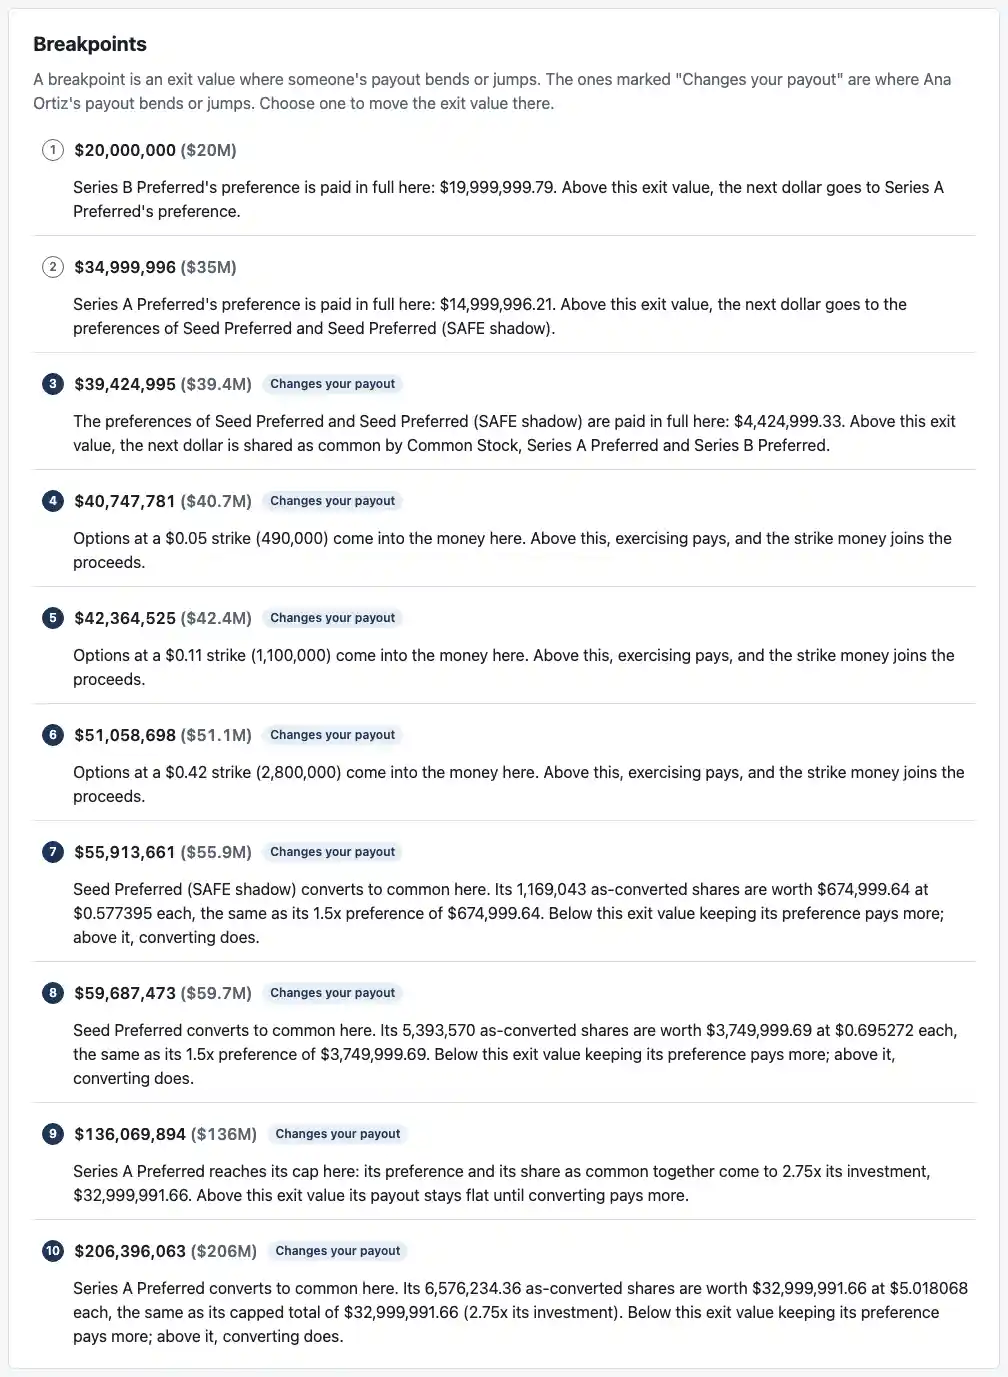
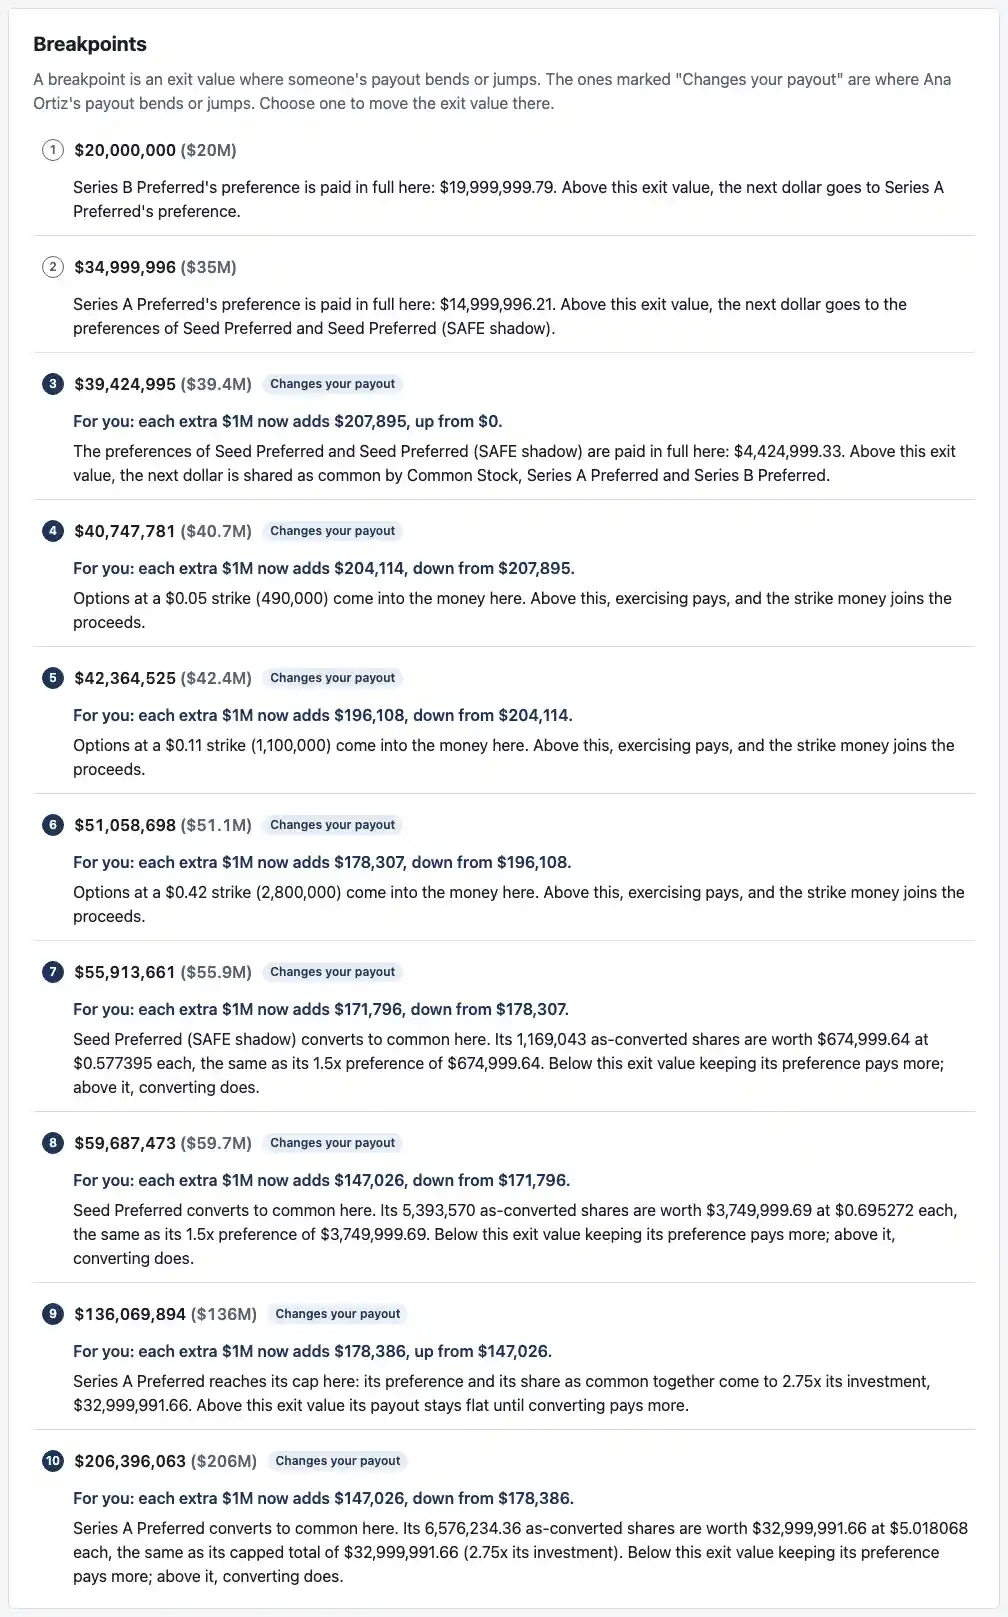
M3b review: say how each breakpoint changes your payout
Each breakpoint that changes the selected holder's payout gets one line:
what each extra $1M adds above it against below it, or how far the payout
jumps. For Ana on Millrace, breakpoint 4 reads "each extra $1M now adds
$204,114, down from $207,895" and breakpoint 8 "$147,026, down from
$171,796"; a test checks both. A bend now has to change the rate by half a
cent per $1M to count, matching the half cent a jump needs; no marks moved.

design-m3.md records the emphasis design as approved.

Changed region(s): [[0.0308, 0.0, 0.9534, 0.9993]]

diff --git a/apps/dashboard/src/BreakpointList.tsx b/apps/dashboard/src/BreakpointList.tsx
@@ -1,24 +1,26 @@
 // Every breakpoint, numbered as on the chart, with its plain-English reasons.
 // Clicking one moves the exit value there. The ones that change your payout
-// say so.
+// say so, and say how: what each extra $1M of exit value adds to your payout
+// on either side, or how far it jumps.
 
 import { D } from "spillpoint";
 
 import type { BreakpointView } from "./analysis.ts";
-import { dollars, shortDollars } from "./format.ts";
+import type { Change } from "./curves.ts";
+import { dollars, dollarsAndCents, shortDollars } from "./format.ts";
 
 type Decimal = D;
 
 interface Props {
   breakpoints: readonly BreakpointView[];
-  /** Which breakpoints change your payout, by index. */
-  yours: readonly boolean[];
+  /** How each breakpoint changes your payout, by index; null where it doesn't. */
+  changes: readonly (Change | null)[];
   yourName: string;
   exitValue: Decimal;
   onExitValue: (value: Decimal) => void;
 }
 
-export function BreakpointList({ breakpoints, yours, yourName, exitValue, onExitValue }: Props) {
+export function BreakpointList({ breakpoints, changes, yourName, exitValue, onExitValue }: Props) {
   return (
     <section className="card" aria-labelledby="breakpoints-heading">
       <h2 id="breakpoints-heading">Breakpoints</h2>
@@ -33,19 +35,21 @@ export function BreakpointList({ breakpoints, yours, yourName, exitValue, onExit
           {breakpoints.map((b, i) => {
             const x = new D(b.exitValue);
             const here = x.toDecimalPlaces(2).eq(exitValue.toDecimalPlaces(2));
+            const change = changes[i] ?? null;
             return (
               <li key={b.exitValue} className={here ? "is-here" : undefined}>
                 <button type="button" className="breakpoints__head" onClick={() => onExitValue(x)} aria-current={here ? "true" : undefined}>
-                  <span className={`breakpoints__n${yours[i] ? " is-yours" : ""}`} aria-hidden="true">
+                  <span className={`breakpoints__n${change ? " is-yours" : ""}`} aria-hidden="true">
                     {i + 1}
                   </span>
                   <span className="breakpoints__value">
                     {dollars(x)} <span className="muted">({shortDollars(x)})</span>
                   </span>
-                  {yours[i] && <span className="tag">Changes your payout</span>}
+                  {change && <span className="tag">Changes your payout</span>}
                   {b.jumps && <span className="tag tag--quiet">Payouts jump</span>}
                   {here && <span className="tag tag--quiet">The exit value is here</span>}
                 </button>
+                {change && <p className="breakpoints__yours">{forYou(change)}</p>}
                 {b.reasons.map((r) => (
                   <p key={r.code + r.subject.join("+")} className="breakpoints__reason">
                     {r.text}
@@ -58,4 +62,23 @@ export function BreakpointList({ breakpoints, yours, yourName, exitValue, onExit
       )}
     </section>
   );
+}
+
+/**
+ * One line on how a breakpoint changes your payout. A bend compares what each
+ * extra $1M adds just above the breakpoint with just below it; a jump gives
+ * its size. Whole dollars, unless they would round two different amounts to
+ * the same figure, then cents.
+ */
+function forYou(change: Change): string {
+  if (change.kind === "jump") {
+    // The size is the difference of the two amounts as shown, so the line adds up as written.
+    const cents = dollars(change.from) === dollars(change.to);
+    const shown = (v: D) => v.toDecimalPlaces(cents ? 2 : 0, D.ROUND_HALF_UP);
+    const money = cents ? dollarsAndCents : dollars;
+    const by = shown(change.to).minus(shown(change.from));
+    return `For you: your payout ${by.isNegative() ? "drops" : "jumps"} ${money(by.abs())} here, from ${money(change.from)} to ${money(change.to)}.`;
+  }
+  const money = dollars(change.after) === dollars(change.before) ? dollarsAndCents : dollars;
+  return `For you: each extra $1M now adds ${money(change.after)}, ${change.after.gt(change.before) ? "up" : "down"} from ${money(change.before)}.`;
 }

diff --git a/apps/dashboard/src/curves.ts b/apps/dashboard/src/curves.ts
@@ -45,23 +45,36 @@ export function valueAt(nodes: readonly Node[], x: Decimal): Decimal {
   return nodes[nodes.length - 1]!.left;
 }
 
-/** Slopes closer than this are the same; values closer than half a cent don't jump. */
-const SLOPE_TIE = new D("1e-9");
+/** Values closer than half a cent don't jump; rates closer than half a cent per extra $1M don't bend. */
 const VALUE_TIE = new D("0.005");
+const MILLION = new D("1e6");
+
+/**
+ * How a curve changes at node i, if it does: a jump from one payout to
+ * another, or a bend, given as what each extra $1M of exit value adds to the
+ * payout just below the breakpoint and just above it. Between breakpoints a
+ * payout is a straight line, so that rate holds across each whole segment.
+ */
+export type Change = { kind: "jump"; from: Decimal; to: Decimal } | { kind: "bend"; before: Decimal; after: Decimal };
+
+export function changeAt(nodes: readonly Node[], i: number): Change | null {
+  const n = nodes[i];
+  const before = nodes[i - 1];
+  const after = nodes[i + 1];
+  if (!n || !before || !after) return null;
+  if (n.right.minus(n.left).abs().gt(VALUE_TIE)) return { kind: "jump", from: n.left, to: n.right };
+  const perMillionBefore = n.left.minus(before.right).div(n.x.minus(before.x)).times(MILLION);
+  const perMillionAfter = after.left.minus(n.right).div(after.x.minus(n.x)).times(MILLION);
+  if (perMillionBefore.minus(perMillionAfter).abs().gt(VALUE_TIE)) return { kind: "bend", before: perMillionBefore, after: perMillionAfter };
+  return null;
+}
 
 /**
  * Whether this curve bends or jumps at node i: the breakpoints that change
  * the selected holder's payout, which the founder view points out.
  */
 export function changesAt(nodes: readonly Node[], i: number): boolean {
-  const n = nodes[i];
-  const before = nodes[i - 1];
-  const after = nodes[i + 1];
-  if (!n || !before || !after) return false;
-  if (n.right.minus(n.left).abs().gt(VALUE_TIE)) return true;
-  const slopeBefore = n.left.minus(before.right).div(n.x.minus(before.x));
-  const slopeAfter = after.left.minus(n.right).div(after.x.minus(n.x));
-  return slopeBefore.minus(slopeAfter).abs().gt(SLOPE_TIE);
+  return changeAt(nodes, i) !== null;
 }
 
 /** A tidy axis top and step: 1, 2, 2.5 or 5 times a power of ten, in four to six steps. */

diff --git a/apps/dashboard/test/breakpoint-list.test.tsx b/apps/dashboard/test/breakpoint-list.test.tsx
@@ -1,0 +1,40 @@
+// The "For you" line in the breakpoint list, for changes neither example has:
+// jumps up and down, and a bend too small to show in whole dollars.
+
+import { render, screen } from "@testing-library/react";
+import { D } from "spillpoint";
+import { describe, expect, it } from "vitest";
+
+import { BreakpointList } from "../src/BreakpointList.tsx";
+import type { Change } from "../src/curves.ts";
+
+const breakpoint = (exitValue: string) => ({ exitValue, jumps: false, reasons: [{ code: "other" as const, subject: [], text: "A reason." }] });
+
+function forYou(change: Change): string | null {
+  render(<BreakpointList breakpoints={[breakpoint("50000000")]} changes={[change]} yourName="Ana" exitValue={new D(0)} onExitValue={() => {}} />);
+  return document.querySelector(".breakpoints__yours")?.textContent ?? null;
+}
+
+describe("how a breakpoint changes your payout", () => {
+  it("gives the size of a jump up, from and to", () => {
+    expect(forYou({ kind: "jump", from: new D("1000000.4"), to: new D("3500000.6") })).toBe(
+      "For you: your payout jumps $2,500,001 here, from $1,000,000 to $3,500,001.",
+    );
+  });
+
+  it("says a payout drops when it jumps down", () => {
+    expect(forYou({ kind: "jump", from: new D("4000000"), to: new D("2750000") })).toBe("For you: your payout drops $1,250,000 here, from $4,000,000 to $2,750,000.");
+  });
+
+  it("uses cents when whole dollars would show the same amount twice", () => {
+    expect(forYou({ kind: "bend", before: new D("204114.2"), after: new D("204114.31") })).toBe(
+      "For you: each extra $1M now adds $204,114.31, up from $204,114.20.",
+    );
+  });
+
+  it("says nothing when the breakpoint doesn't change your payout", () => {
+    render(<BreakpointList breakpoints={[breakpoint("50000000")]} changes={[null]} yourName="Ana" exitValue={new D(0)} onExitValue={() => {}} />);
+    expect(document.querySelector(".breakpoints__yours")).toBeNull();
+    expect(screen.queryByText("Changes your payout")).toBeNull();
+  });
+});

diff --git a/apps/dashboard/src/App.tsx b/apps/dashboard/src/App.tsx
@@ -13,7 +13,7 @@ import { PayoffChart } from "./PayoffChart.tsx";
 import { PayoutTable } from "./PayoutTable.tsx";
 import { useAnalysis } from "./analysis.ts";
 import { defaultHolder } from "./capTable.ts";
-import { changesAt, seriesNodes } from "./curves.ts";
+import { changeAt, seriesNodes } from "./curves.ts";
 
 export function App() {
   const [exampleId, setExampleId] = useState(examples[0]!.id);
@@ -62,12 +62,14 @@ function Workspace({ example }: { example: Example }) {
   const answer = useMemo(() => solve(pc, exitValue).answers[0]!, [pc, exitValue]);
   const analysis = useAnalysis(example.exit);
   const ready = analysis.status === "ready" ? analysis : null;
-  // The breakpoints where your payout bends or jumps, which the curves and the list point out.
-  const yours = useMemo(() => {
+  // How your payout bends or jumps at each breakpoint, if it does: the curves mark those breakpoints,
+  // and the list says how.
+  const changes = useMemo(() => {
     if (!ready) return [];
     const nodes = seriesNodes(ready.curve, "holder", you);
-    return ready.breakpoints.map((_, i) => changesAt(nodes, i + 1));
+    return ready.breakpoints.map((_, i) => changeAt(nodes, i + 1));
   }, [ready, you]);
+  const yours = useMemo(() => changes.map((c) => c !== null), [changes]);
   const yourName = exit.capTable.holders.find((h) => h.id === you)?.name ?? "";
 
   return (
@@ -94,7 +96,7 @@ function Workspace({ example }: { example: Example }) {
         />
       )}
       <PayoutTable pc={pc} answer={answer} exitValue={exitValue} you={you} />
-      {ready && <BreakpointList breakpoints={ready.breakpoints} yours={yours} yourName={yourName} exitValue={exitValue} onExitValue={setExitValue} />}
+      {ready && <BreakpointList breakpoints={ready.breakpoints} changes={changes} yourName={yourName} exitValue={exitValue} onExitValue={setExitValue} />}
     </main>
   );
 }

diff --git a/apps/dashboard/test/curves.test.ts b/apps/dashboard/test/curves.test.ts
@@ -5,7 +5,7 @@ import { D } from "spillpoint";
 import { describe, expect, it } from "vitest";
 
 import type { CurvePoint } from "../src/analysis.ts";
-import { changesAt, chartRows, niceScale, seriesNodes, valueAt } from "../src/curves.ts";
+import { changeAt, changesAt, chartRows, niceScale, seriesNodes, valueAt } from "../src/curves.ts";
 
 // Two holders over exit values $0 to $30. "a" gets nothing until $10, then
 // half of each dollar; at $20 its payout jumps from $5 to $8, then it gets
@@ -47,6 +47,23 @@ describe("which breakpoints change a payout", () => {
   it("never counts the ends of the range", () => {
     expect(changesAt(a, 0)).toBe(false);
     expect(changesAt(a, 3)).toBe(false);
+  });
+
+  it("gives a bend as what each extra $1M adds on either side, and a jump as from and to", () => {
+    const bend = changeAt(a, 1);
+    expect(bend?.kind).toBe("bend");
+    // "a" gets nothing below $10, then half of each dollar: $500,000 of each extra $1M.
+    if (bend?.kind === "bend") expect([bend.before.toString(), bend.after.toString()]).toEqual(["0", "500000"]);
+    const jump = changeAt(a, 2);
+    expect(jump?.kind).toBe("jump");
+    if (jump?.kind === "jump") expect([jump.from.toString(), jump.to.toString()]).toEqual(["5", "8"]);
+    expect(changeAt(b, 1)).toBeNull();
+  });
+
+  it("ignores a bend of less than half a cent per extra $1M", () => {
+    // From $10 the rate rises by 0.4 billionths of a dollar per dollar: $0.0004 per $1M.
+    const slight = seriesNodes([at("0", "0", "0"), at("10", "10", "0"), at("20", "20.000000004", "0")], "holder", "a");
+    expect(changeAt(slight, 1)).toBeNull();
   });
 
   it("ignores a jump of less than half a cent", () => {

diff --git a/apps/dashboard/test/curves-ui.test.tsx b/apps/dashboard/test/curves-ui.test.tsx
@@ -97,6 +97,20 @@ describe("the breakpoint list", () => {
     expect(yours).toEqual([false, false, true, true, true, true, true, true, true, true]);
   });
 
+  it("says how each one changes Ana's payout: what each extra $1M adds on either side", async () => {
+    render(<App />);
+    const items = within(await breakpointList()).getAllByRole("listitem");
+    const forYou = (n: number) => items[n - 1]!.querySelector(".breakpoints__yours")?.textContent ?? null;
+    // Breakpoint 4: the $0.05 options come into the money, so common's share of each dollar drops.
+    expect(forYou(4)).toBe("For you: each extra $1M now adds $204,114, down from $207,895.");
+    // Breakpoint 8: Seed Preferred converts and joins common.
+    expect(forYou(8)).toBe("For you: each extra $1M now adds $147,026, down from $171,796.");
+    // Breakpoint 3: nothing reaches common below it.
+    expect(forYou(3)).toMatch(/^For you: each extra \$1M now adds \$[\d,]+, up from \$0\.$/);
+    // Breakpoints 1 and 2 don't change Ana's payout, so they say nothing about it.
+    expect([forYou(1), forYou(2)]).toEqual([null, null]);
+  });
+
   it("follows the holder you choose", async () => {
     render(<App />);
     const list = await breakpointList();

diff --git a/apps/dashboard/src/format.ts b/apps/dashboard/src/format.ts
@@ -18,6 +18,14 @@ export function dollars(amount: Decimal): string {
   return `${sign}$${grouped(rounded.abs().toFixed(0))}`;
 }
 
+/** "$204,114.37": to the cent, where whole dollars would hide a difference. */
+export function dollarsAndCents(amount: Decimal): string {
+  const rounded = amount.toDecimalPlaces(2, D.ROUND_HALF_UP);
+  const sign = rounded.isNegative() ? "-" : "";
+  const [whole, cents] = rounded.abs().toFixed(2).split(".");
+  return `${sign}$${grouped(whole!)}.${cents}`;
+}
+
 /** "$9.75M", "$39.4M", "$100M", "$450K", "$812": three significant digits, for headlines. */
 export function shortDollars(amount: Decimal): string {
   const a = amount.abs();

diff --git a/apps/dashboard/src/styles.css b/apps/dashboard/src/styles.css
@@ -154,6 +154,7 @@ select:focus-visible, input:focus-visible, button:focus-visible { outline: 2px s
 .breakpoints__n.is-yours { background: var(--accent); border-color: var(--accent); color: #fff; }
 .breakpoints__value { font-weight: 600; font-variant-numeric: tabular-nums; }
 .breakpoints__reason { margin: 6px 0 0 40px; }
+.breakpoints__yours { margin: 6px 0 0 40px; font-weight: 600; color: var(--accent); }
 .tag { font-size: 0.75rem; font-weight: 600; border-radius: 999px; padding: 1px 8px; background: var(--accent-soft); color: var(--accent); }
 .tag--quiet { background: transparent; border: 1px solid var(--line); color: var(--muted); }
 

diff --git a/notes/review-m3b.md b/notes/review-m3b.md
@@ -10,6 +10,41 @@ pnpm install && pnpm dev
 
 Then open the address it prints (usually http://localhost:5173/). Everything below is on Millrace, which the page opens on, with Ana Ortiz as "you".
 
+## Added after your review: "For you" on each breakpoint
+
+Every breakpoint that changes the selected holder's payout now says how, in one line, in bold under its exit value:
+
+- **A bend** compares what each extra $1M of exit value adds to your payout just above the breakpoint against just below it. For Ana on Millrace:
+  - **Breakpoint 4:** "For you: each extra $1M now adds $204,114, down from $207,895."
+  - **Breakpoint 8:** "For you: each extra $1M now adds $147,026, down from $171,796."
+
+  These are your two numbers, to the dollar, and a test checks both.
+- **A jump** says how much your payout jumps instead: "For you: your payout jumps $2,500,001 here, from $1,000,000 to $3,500,001." A jump down says "drops".
+
+**What to click:** scroll to the breakpoint list. Ana's lines run from breakpoint 3, "now adds $207,895, up from $0", to breakpoint 10. Two to check by sense:
+- **At 9 her rate goes up,** because Series A stops sharing at its cap.
+- **At 10 it goes back down,** because Series A converts and shares again.
+
+Switch "You are" to Cobalt and the lines follow, starting at breakpoint 1.
+
+![The breakpoint list, with the "For you" lines](screenshots/m3b-breakpoints.webp)
+
+**Choices I made, for you to check:**
+1. **Wording:** "up from" or "down from", and "$0" where nothing reaches you on one side. I kept "$0" rather than "nothing" so every line reads the same way.
+2. **Whole dollars,** as in the tables. If two rates would round to the same dollar, the line shows cents instead, so it never reads "now adds $204,114, up from $204,114".
+3. **A jump's size** is the difference of the two amounts as shown, so the line adds up as written.
+4. **What counts as a change.** A bend now has to change your rate by at least half a cent per extra $1M, the same half cent a jump needs. That way, every breakpoint marked "Changes your payout" has a visible difference in its line. Before, the threshold was far smaller, a thousandth of a cent per $1M. No marks moved: for all nine Millrace holders and all four in case 4, the marked breakpoints are the same as before.
+5. **Where it shows:** the breakpoint list only. The slider's marks and the chart's numbers stay as they were, explaining the breakpoint for everyone. Say if you'd like the line in the slider marks' boxes as well.
+
+**Tests:** 7 more, 45 for the dashboard in all.
+- **Your two Millrace numbers,** checked to the exact text, plus "up from $0" at breakpoint 3.
+- **No line** where a breakpoint doesn't change your payout.
+- **A jump up and a jump down.**
+- **The cents fallback.**
+- **The rate calculation** on a small made-up curve.
+
+**`notes/design-m3.md`** now records the emphasis design as approved, and the "For you" line.
+
 ## What to click
 
 1. **The slider's marks.** Under the slider:
@@ -72,7 +107,7 @@ Then open the address it prints (usually http://localhost:5173/). Everything bel
     - choosing a breakpoint
     - the slider's caption, its marks' names and boxes on focus and hover, and choosing a mark
 - **Still no network calls or browser storage.** The built page contains no `fetch`, XMLHttpRequest, beacon, WebSocket, localStorage, sessionStorage or IndexedDB.
-- **`pnpm screenshots`** takes the six new shots, cropped to the part of the page each one shows (245 KB in all).
+- **`pnpm screenshots`** takes the six new shots, cropped to the part of the page each one shows (261 KB in all).
 - **`notes/design-m3.md`:** principle 5 and the M3b line now describe the curves as built (decision 1 below), and M3e's two phone fixes from your M3a review are recorded.
 - **`notes/next-unlock.md`:** renaming "Seed Preferred (SAFE shadow)" to "(from SAFEs)", as you asked. Until that unlock, the dashboard shows the case's current name; you'll see it in the list and the by-class view.
 
@@ -87,16 +122,16 @@ No changes to `.github/workflows/` or `.claude/`.
    - **The one you point at** is lifted in orange and labelled.
    - **The rest are grey,** for context.
 
-   Color is never the only cue. The two colored lines are labelled in words, and the legend and hover box name every holder with its value. If you'd rather have dash patterns on the grey lines too, it's a small change.
-2. **"Changes your payout"** means your payout jumps by more than half a cent there, or its slope changes. It's worked out from the curve, so it follows whichever holder you choose. A breakpoint that changes only other holders' payouts gets a hollow number and no tag.
+   Color is never the only cue. The two colored lines are labelled in words, and the legend and hover box name every holder with its value. **Approved in your review.**
+2. **"Changes your payout"** means your payout jumps by more than half a cent there, or what each extra $1M adds to it changes by more than half a cent (see choice 4 above). It's worked out from the curve, so it follows whichever holder you choose. A breakpoint that changes only other holders' payouts gets a hollow number and no tag.
 3. **Just above a jump,** the chart uses the payout one millionth of a dollar above the breakpoint. That's for drawing only; the tables and headline always solve at the exact exit value.
 4. **Clicking the chart** rounds the exit value to three significant figures ($62.4M, not $62,413,977.12), as the slider does. To land exactly on a breakpoint, choose its mark or its entry in the list.
 5. **Crowded breakpoint numbers** step up into as many as four rows. Beyond that, a number is left off, with its line still drawn, and the chart says how many and to zoom in. At the full range on a laptop all ten show; on a phone three are left off.
-6. **The page's script is bigger:** 659 KB (202 KB compressed), up from 292 KB (94 KB) in M3a. Nearly all of it is Recharts. It loads once and everything after runs locally, so I've left it as one file. Vite prints a size warning during the build, which CI ignores. If you'd like, M3e can load the chart separately so the founder view appears a moment sooner.
+6. **The page's script is bigger:** 659 KB (202 KB compressed), up from 292 KB (94 KB) in M3a. Nearly all of it is Recharts. It loads once and everything after runs locally, so I've left it as one file. Vite prints a size warning during the build, which CI ignores. If you'd like, M3e can load the chart separately so the founder view appears a moment sooner. **Approved in your review as is.**
 
 ## Open questions
 
-1. **Decision 1:** emphasis as built, or dash patterns on the grey lines as well?
+1. **The "For you" line:** is the wording right, and should it also appear in the slider marks' boxes (choice 5 above)?
 2. **Anything in the breakpoint reasons you'd word differently** now that you see them on the page? They're the engine's wording from M2e, unchanged.
 
 Next is M3c, the cap table editor. I'm stopping here.

diff --git a/notes/design-m3.md b/notes/design-m3.md
@@ -17,7 +17,7 @@ The direction for the dashboard's look, set in M3a for you to approve before M3b
 5. **Never color alone.**
    - **Your row** is marked "(you)" in words, with a bar, as well as a tint.
    - **The toggle's** selected state is announced to screen readers.
-   - **The curves (M3b)** are told apart by emphasis, not by nine colors: your curve is blue, thicker and labelled at its end; the one you point at is lifted in orange and labelled too; the rest are thin grey context. The legend under the chart names every curve with its value, and the hover readout lists them all. (Built this way in M3b in place of nine line styles; see `review-m3b.md`, decision 1.)
+   - **The curves (M3b)** are told apart by emphasis, not by nine colors: your curve is blue, thicker and labelled at its end; the one you point at is lifted in orange and labelled too; the rest are thin grey context. The legend under the chart names every curve with its value, and the hover readout lists them all. (Emphasis in place of nine line styles, approved in the M3b review.)
 
 ## The look
 
@@ -28,7 +28,7 @@ The direction for the dashboard's look, set in M3a for you to approve before M3b
 
 ## What later PRs add in the same style
 
-- **M3b:** curves as their own card, with direct labels, emphasis instead of nine colors, and numbered breakpoints. The breakpoint list as a numbered list of plain sentences, with the same numbers.
+- **M3b:** curves as their own card, with direct labels, emphasis instead of nine colors, and numbered breakpoints. The breakpoint list as a numbered list of plain sentences, with the same numbers. Each breakpoint that changes your payout says how, in one line: what each extra $1M adds to your payout above it against below it, or how far your payout jumps.
 - **M3c:** the cap table editor as forms in cards, with the engine's own error messages next to the field they name.
 - **M3d:** "Save" and "Open" as plain buttons in the masthead.
 - **M3e:** the narrow-screen pass. From the M3a review: on a phone, the example picker runs off the right edge and the table's share columns are cut off. Both must fit.
